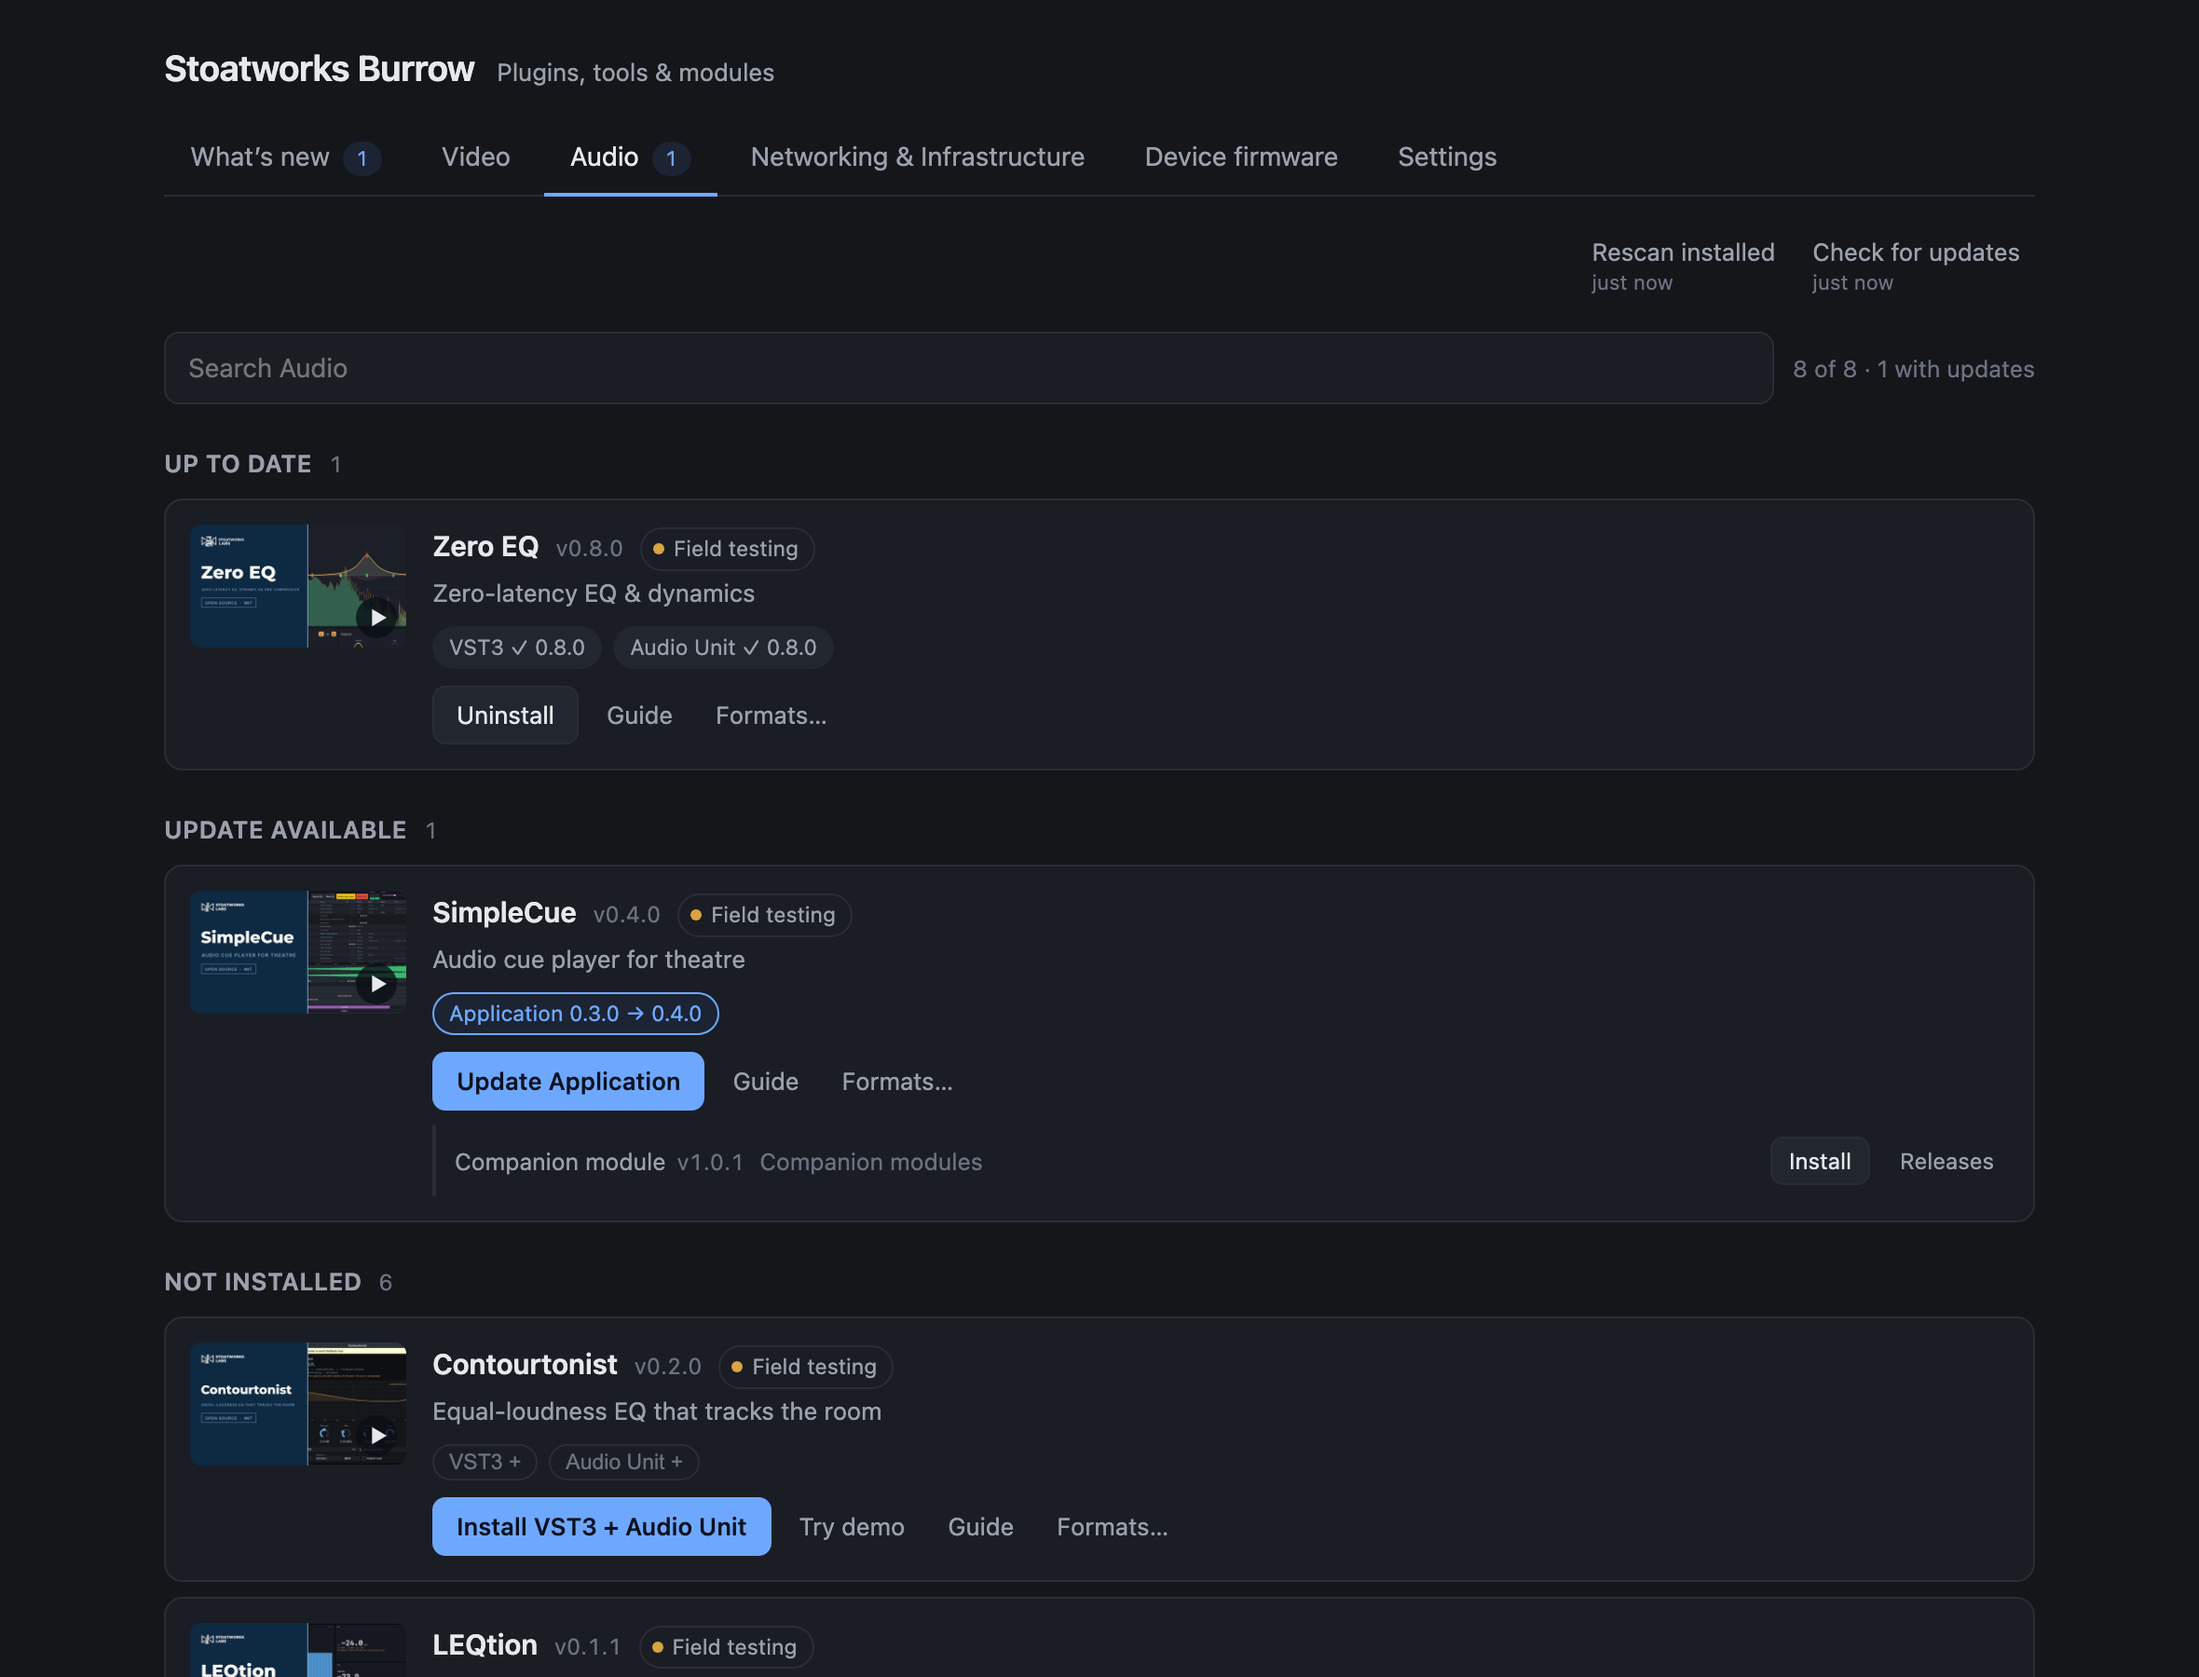
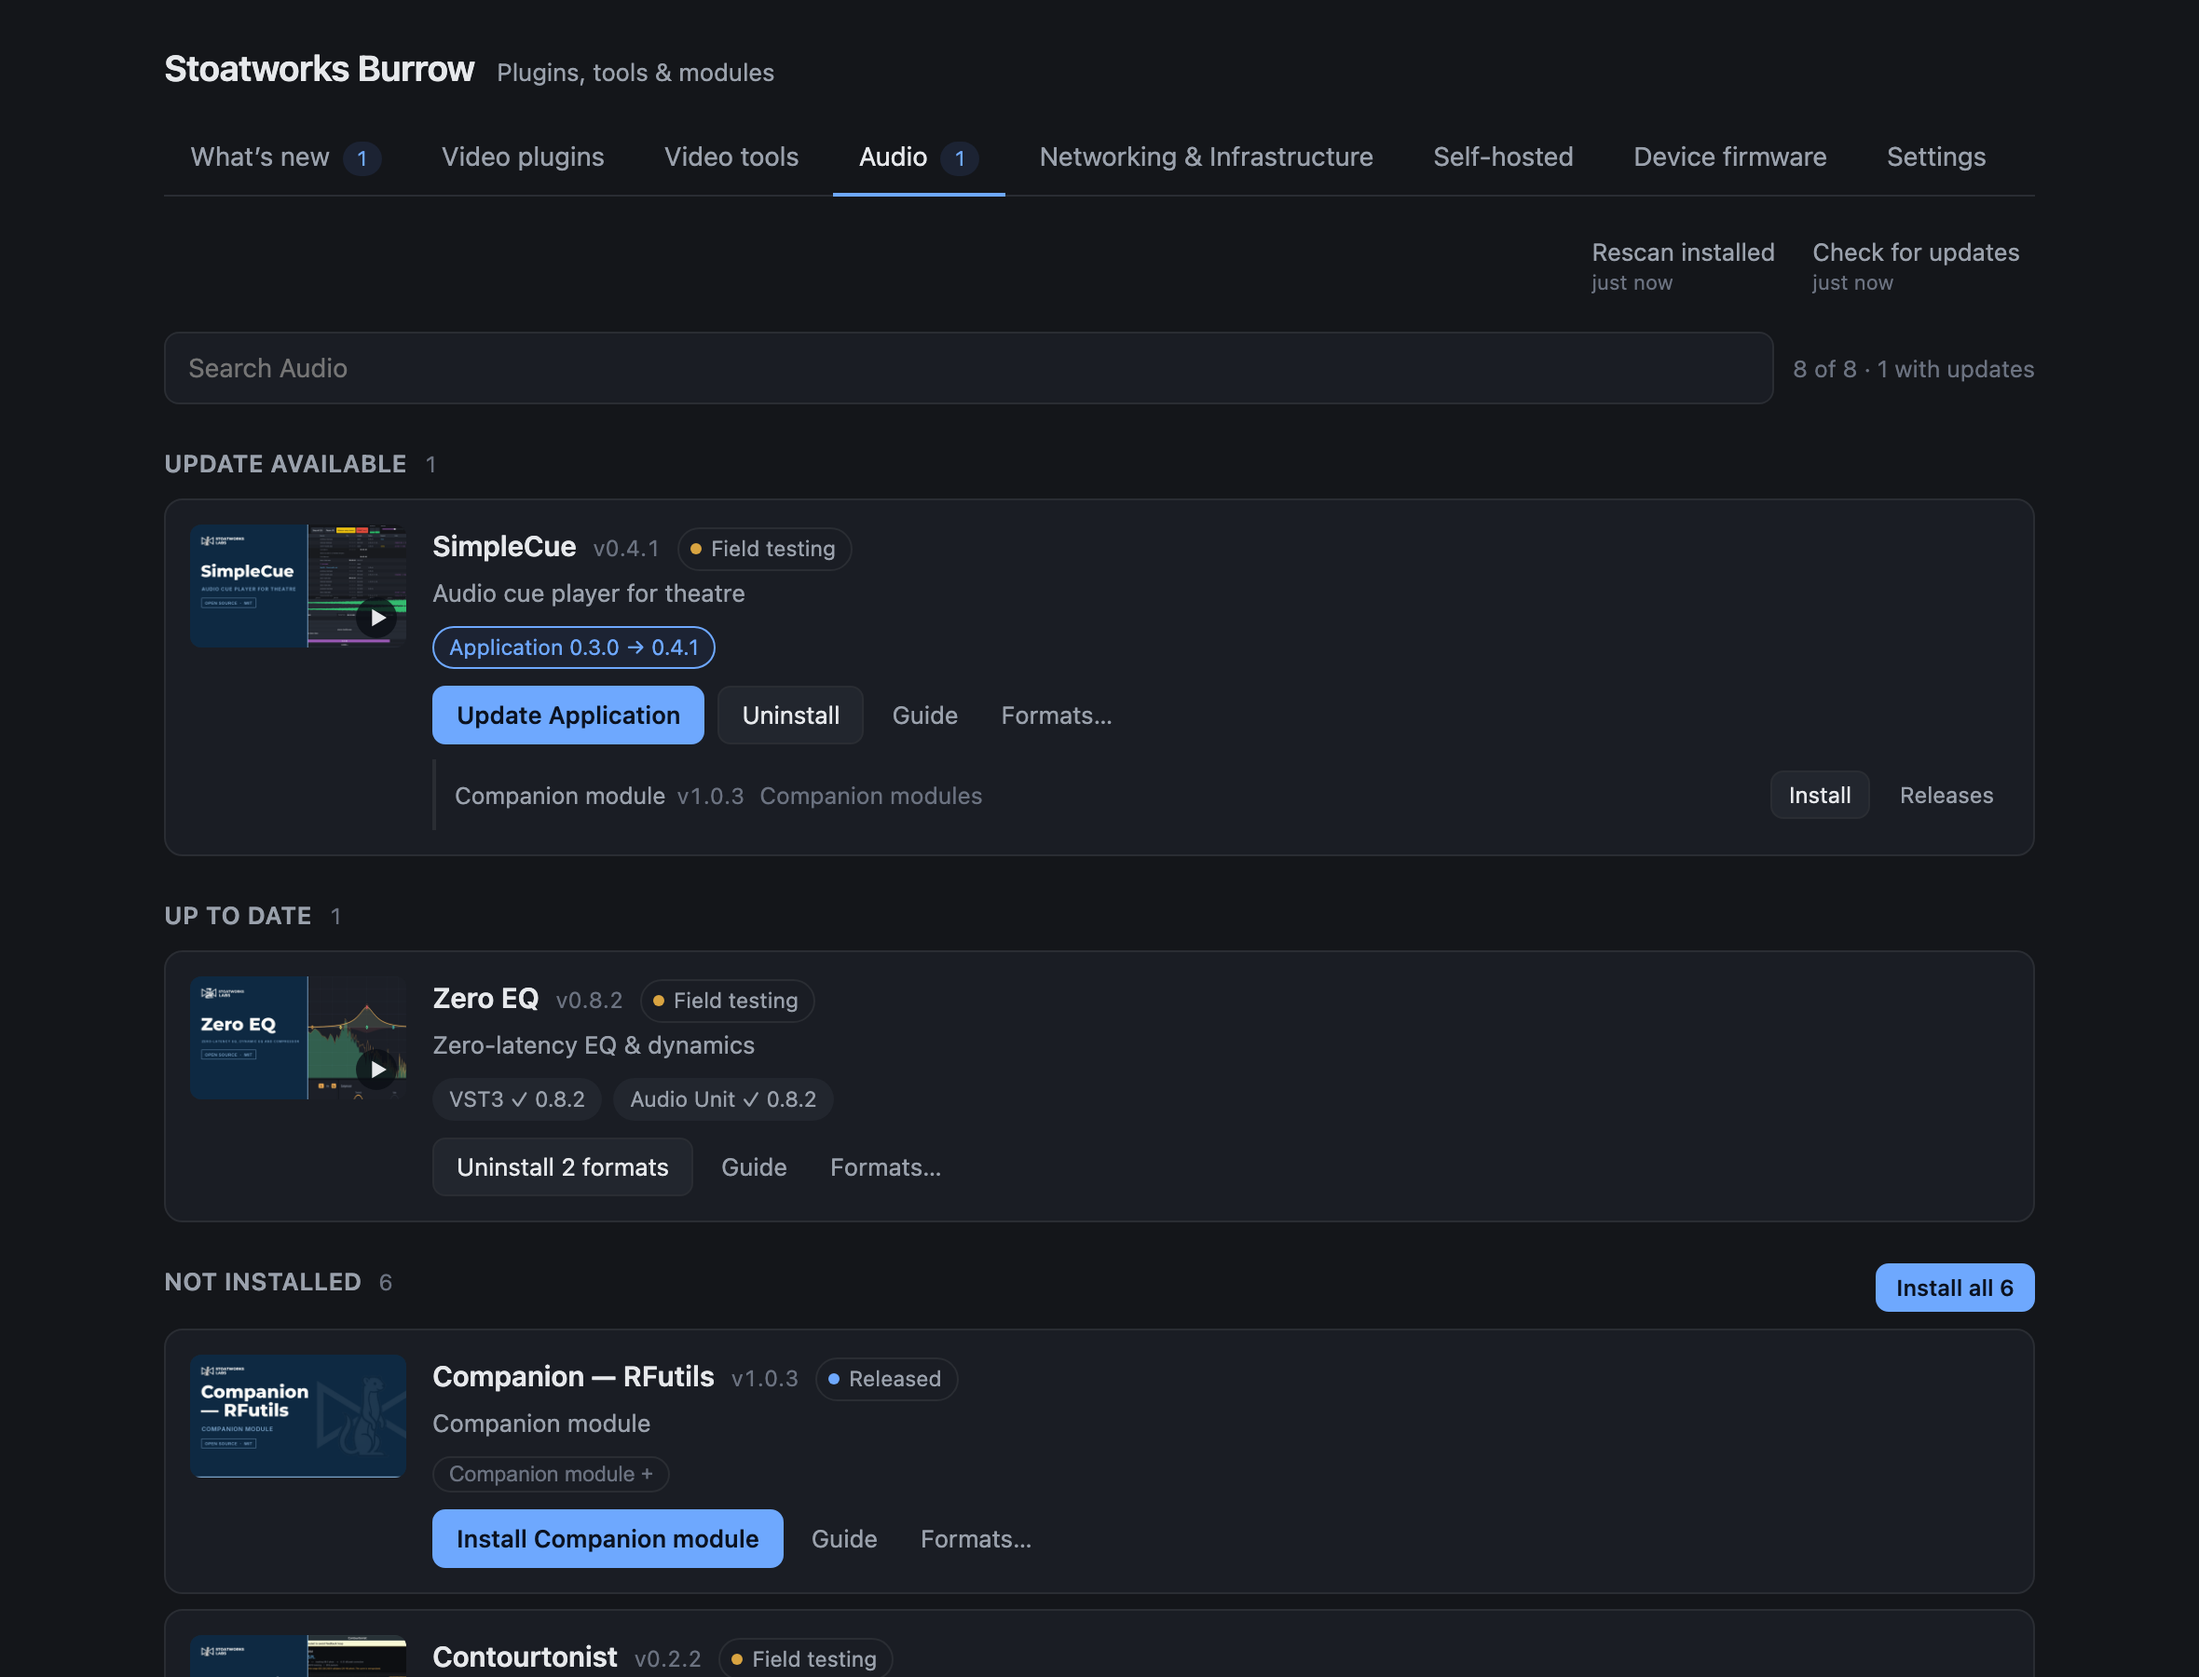
Lead each list with Update available, then Up to date, then Not installed
The heading answers "does this need my attention", and the one whose answer
is yes was sitting below every row that was fine. Only the draw order moved:
the bucket rule in Rust is untouched. The guide, the README and the four
screenshots that show the headings follow it.

diff --git a/src/tabs/Plugins.tsx b/src/tabs/Plugins.tsx
@@ -117,9 +117,14 @@ export function Plugins({
   const web = filtered.filter(p => p.kind === 'web')
   const installable = filtered.filter(p => p.kind !== 'web')
 
+  /*
+   * In the order they need attention: what is behind first, then what is
+   * installed and current, then what is not installed at all. The heading
+   * with something to do sits at the top, not below every row that is fine.
+   */
   const groups: Array<[string, PluginView['bucket'], string]> = [
-    ['Up to date', 'up-to-date', 'Nothing installed yet.'],
     ['Update available', 'update-available', 'Everything you have is current.'],
+    ['Up to date', 'up-to-date', 'Nothing installed yet.'],
     [
       'Not installed',
       'not-installed',

diff --git a/README.md b/README.md
@@ -44,7 +44,7 @@ Burrow is one searchable list instead of all that.
 
 <table>
   <tr>
-    <td align="center"><img src="docs/screenshots/plugins.png" width="380" alt="The video plugin list, grouped into up to date, update available and not installed, with per-format state on each row"><br><sub>Video</sub></td>
+    <td align="center"><img src="docs/screenshots/plugins.png" width="380" alt="The video plugin list, grouped into update available, up to date and not installed, with per-format state on each row"><br><sub>Video</sub></td>
     <td align="center"><img src="docs/screenshots/audio.png" width="380" alt="The audio tab: Zero EQ installed as VST3 and Audio Unit, SimpleCue with an update and its Companion module nested underneath"><br><sub>Audio &mdash; with a Companion module on its tool&rsquo;s row</sub></td>
   </tr>
   <tr>
@@ -65,7 +65,7 @@ awkward to produce on demand, and one of them is a cancelled password prompt.*
 - **What's new** — release notes for updates you could take, and plugins you
   haven't seen.
 - **Video · Audio · Networking & Infrastructure** — everything in that part of the
-  fleet, under *Up to date*, *Update available* and *Not installed*, with per-format
+  fleet, under *Update available*, *Up to date* and *Not installed*, with per-format
   state on each row, and how far along each project is — *Field proven*, *Field
   testing*, *Released*, *In development* — in the same words the website uses.
 - **Settings** — what to install by default, overridable per item, and where each

diff --git a/docs/NOTES.md b/docs/NOTES.md
@@ -804,3 +804,13 @@ not reach `src-tauri`, which is a standalone workspace — so the settings
 migrations and the demo server's refusals have been unrun since they were
 written, and the updater's would have joined them. The `tauri` CI job now runs
 `cargo test` as well as `cargo check`.
+
+## 2026-09-15 — the list leads with what needs doing
+
+The three headings now run *Update available*, *Up to date*, *Not installed*;
+they used to open with *Up to date*. The heading answers "does this need my
+attention", and the one whose answer is yes was sitting below every row that was
+fine. The rule that files a plugin under a heading (`bucket_for`, in Rust) is
+untouched — only the order the UI draws them in moved, together with the guide,
+the README and the screenshots that show it. *Runs in a browser* still comes
+first on the tab that has it; that heading was not part of the decision.

diff --git a/docs/USER-GUIDE.md b/docs/USER-GUIDE.md
@@ -62,10 +62,10 @@ A number beside a tab is how many things in it need updating.
 Burrow reads your plugin folders and shows you what you already have. It does not
 change anything until you tell it to.
 
-Three headings:
+Three headings, in the order they need your attention:
 
-- **Up to date** — you have it, and it's current.
 - **Update available** — you have it, and there's a newer version.
+- **Up to date** — you have it, and it's current.
 - **Not installed** — available, and you don't have it.
 
 Each row shows which **formats** that plugin offers and what you have of each:
